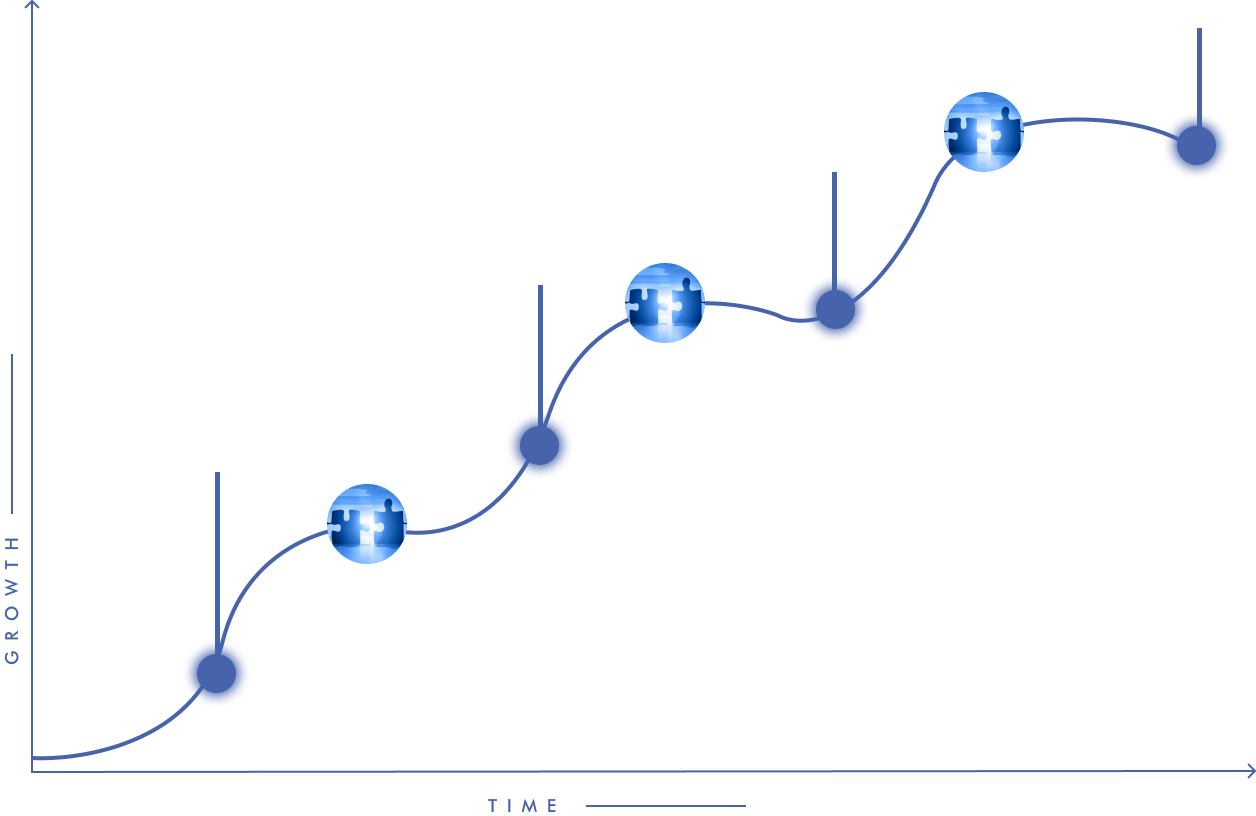
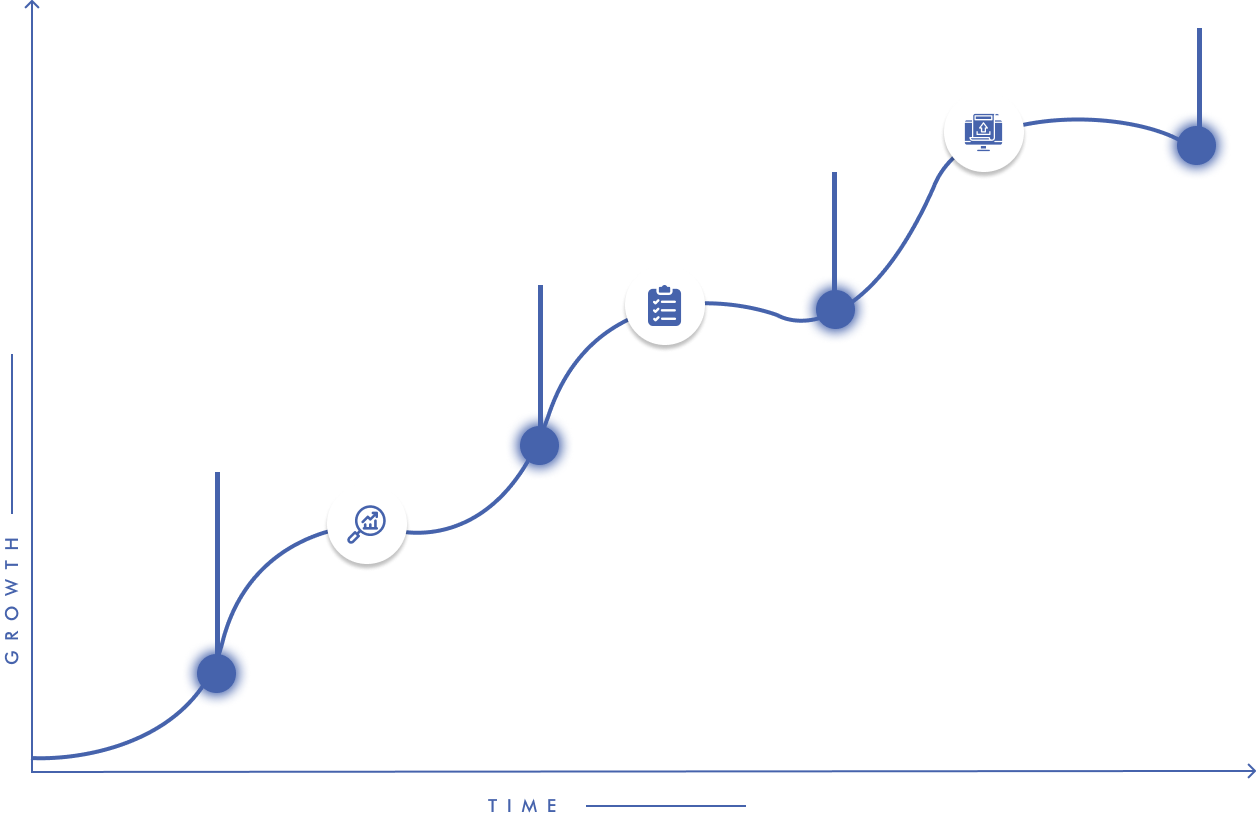
added changes to capabilities

Changed region(s): [[0.2484, 0.5821, 0.3416, 0.7047], [0.7452, 0.0919, 0.8384, 0.2145], [0.4968, 0.3064, 0.5589, 0.4289]]

diff --git a/src/component/serviceComponents/serviceComp.scss b/src/component/serviceComponents/serviceComp.scss
@@ -340,8 +340,14 @@
                                         &:hover{
                                             cursor: context-menu;
                                         }
-                                    }   
+                                    }  
+                                    &:nth-child(2){
+                                        background: #4663AC;
+                                        color: #fff;
+                                      }
+                                       
                             }
+
                     }
                     .amazon-inner-link{
                         display: flex;
@@ -477,7 +483,7 @@ padding: 5px 10px;
 }
 .ser-counter{
     background-image: url('../../../public/amazon-ser-counter.png');
-    height: 788px;
+    height: 560px;
     width: 100%;
     background-repeat: no-repeat;
     background-size: contain;
@@ -485,15 +491,14 @@ padding: 5px 10px;
     @include from-320-850{
         background-size: cover;
         background-position: center;
-        height: 650px;
+        height: 510px;
     }
     @include from-320-575{
         background-image: url('../../../public/growth-mobile.png');
     }
         .counter-info-wrap{
-            padding: 50px 70px;
+            padding: 100px 150px 0px 150px;
             display: flex;
-            justify-content: space-between;
             @include from-320-992{
                 padding: 40px;
                 flex-wrap: wrap;
@@ -526,6 +531,7 @@ padding: 5px 10px;
                         color: #fff;
                         line-height: normal;
                         font-weight: 300;
+                        text-align: center;
                         @include from-320-575{
                             font-size: 14px;
                         }
@@ -535,7 +541,7 @@ padding: 5px 10px;
                     }
             }
                 .first{
-                    width: 40%;
+                    width: 100%;
                     display: flex;
                     flex-direction: column;
                     margin-bottom: 20px;
@@ -545,6 +551,7 @@ padding: 5px 10px;
                         h1{
                             color: #fff;
                             font-size: 30px;
+                            text-align: center;
                             font-weight: 600;
                             line-height: normal;
                             @include above-1400{
@@ -556,11 +563,47 @@ padding: 5px 10px;
 }
 .slider-ser-wrap{
     position: absolute;
-    top:250px;
+    top:300px;
     left: 0px;
     right: 0px;
+    display: flex;
+    justify-content: center;
+    @include from-320-575{
+        padding: 20px;
+    }
+        .singleItem{
+            width: 200px;
+            border-radius: 0px 50px 50px 50px;
+background: #E1F1FD;
+box-shadow: 3px 5px 19px 0px rgba(0, 0, 0, 0.10);
+padding: 20px;
+            h1{
+                font-size: 24px;
+                text-align: center;
+                margin-bottom: 10px;
+                @include from-320-575{
+                    font-size: 16px;
+                }
+            }
+            p{
+                font-size: 16px;
+                text-align: center;
+                font-weight: 300;
+                line-height: 25px;
+                @include from-320-575{
+                    font-size: 12px;
+                    line-height: 15px;
+                }
+            }
+&:first-child{
+    margin-right: 50px;
+    @include from-320-575{
+        margin-right: 5px;
+    }
+}
+        }
     @include from-320-850{
-        top: 360px;
+        top: 270px;
     }
     @include from-320-575{
         position: relative;
@@ -583,15 +626,15 @@ padding: 5px 10px;
         background-position: center;
     }
     @include from-320-850{
-        margin-top: 200px;
+        margin-top: 70px;
     }
     @include from-320-400{
-        margin-top: 355px;
+        margin-top: 70px;
         padding: 20px;
         height: 400px;
     }
     @include from-400-530{
-        margin-top: 255px;
+        margin-top: 70px;
         background-image: url('../../../public/mobile-grow-2.png');
         background-size: cover;
         padding: 20px;

diff --git a/src/component/scaleComponent/scale.scss b/src/component/scaleComponent/scale.scss
@@ -38,6 +38,11 @@
         @content;
     }
 }
+@mixin from-400-575{
+    @media screen and (min-width:320.67px) and (max-width:400px) {
+        @content;
+    }
+}
 .growth-img{
     img{
         position: relative;
@@ -71,10 +76,10 @@
                         left: 15%;bottom: 35%;
                     }
                     @include from-320-575{
-                        width: 70px;
-                        height: 70px;
-                        font-size: 10px;
-                        left: 6%;
+                        width: 55px;
+                        height: 55px;
+                        font-size: 8px;
+                        left: 9vw;
     bottom: 30%;
                     }
                 }
@@ -105,11 +110,11 @@
     left: 36.3%;
                     }
                     @include from-320-575{
-                        width: 70px;
-                        height: 70px;
-                        font-size: 10px;
-                        bottom: 54%;
-    left: 28.3%;
+                        width: 55px;
+                        height: 55px;
+                        font-size: 8px;
+                        bottom: 58%;
+    left: 34.3vw;
                     }
                 }
                 .circle3{
@@ -138,12 +143,13 @@
                         top: 8%;
     right: 30%;
                     }
+                
                     @include from-320-575{
-                        width: 70px;
-                        height: 70px;
-                        font-size: 10px;
-                        top: -8%;
-    right: 26%;
+                        width: 55px;
+                        height: 55px;
+                        font-size: 8px;
+                        top: 2vw;
+    right: 27.5vw;
                     }
                 }
                 .circle4{
@@ -173,11 +179,11 @@
     top: -8%;
                     }
                     @include from-320-575{
-                        width: 70px;
-                        height: 70px;
-                        font-size: 10px;
-                        right: 2.5%;
-    top: -25%;
+                        width: 55px;
+                        height: 55px;
+                        font-size: 8px;
+                        right: 1.5%;
+    top: -6vw;
                     }
                 }
         }

diff --git a/src/app/product-sourcing/service.scss b/src/app/product-sourcing/service.scss
@@ -71,14 +71,14 @@
         
         .step-by-step-wrap{
             position: absolute;
-            width: 25%;
+            width: 30%;
             bottom: 150px;
             right: 150px;
             @include from-992-1250{
                 bottom: 100px;
             }
             @include from-575-992{
-                bottom:45px;
+                bottom:55px;
                 right: 80px;
             }
             @include from-320-850{
@@ -95,25 +95,35 @@
             }
                 h1{
                     text-transform: capitalize;
-                    font-size: 32px;
+                    font-size: 20px;
                     line-height: normal;
                     @include from-320-850{
                         font-size: 18px;
                     }
                     @include from-320-575{
+                        font-size: 12px;
+                    }
+                    @include from-575-992{
                         font-size: 13px;
                     }
                 }
                 p{
-                    font-size: 18px;
+                    font-size: 16px;
                     text-align: justify;
                     line-height: normal;
                     @include from-320-850{
                         font-size: 12px;
                     }
-                    @include from-320-400{
+                    @include from-320-575{
                         font-size: 10px;
-                        line-height: 9px;
+                        line-height: 10px;
+                    }
+                    @include from-575-992{
+                        font-size: 12px;
+                        line-height: 15px;
+                    }
+                    @include from-320-400{
+                        font-size: 9px;
                     }
                 }
         }

diff --git a/src/component/serviceComponents/service-why.js b/src/component/serviceComponents/service-why.js
@@ -14,6 +14,8 @@ function ServiceWhy({
   whyCardsArr,
   trustHeading,
   trustCardsArr,
+  mainImg,
+  secImg,
 }) {
   return (
     <section className="amazon-ser-con">
@@ -23,12 +25,7 @@ function ServiceWhy({
       </h1>
       <div className="amazon-ser-card">
         <div className="image-wrap">
-          <Image
-            alt="growth eco"
-            src={"/amazon-cards-img.png"}
-            width={563}
-            height={429}
-          />
+          <Image alt="growth eco" src={mainImg} width={563} height={429} />
         </div>
         <div className="info-con">
           <p className={poppins.className}>{mainPara}</p>
@@ -80,7 +77,7 @@ function ServiceWhy({
           </div>
         </div>
         <div className="grow-sec-img">
-          <img src={"/amazon-ser-grow.png"} />
+          <img src={secImg} />
         </div>
       </div>
     </section>

diff --git a/src/component/serviceComponents/service-counter.js b/src/component/serviceComponents/service-counter.js
@@ -24,6 +24,8 @@ function ServiceCounter({
           <h1 className={poppins.className}>{headingMain}</h1>
           <p className={poppins.className}>{paraMain}</p>
         </div>
+      </div>
+      <div className="slider-ser-wrap">
         <div className="singleItem">
           <h1 className={poppins.className}>{headingSub1}</h1>
           <p className={poppins.className}>{paraSub1}</p>
@@ -32,9 +34,6 @@ function ServiceCounter({
           <h1 className={poppins.className}>{headingSub2}</h1>
           <p className={poppins.className}>{paraSub2}</p>
         </div>
-      </div>
-      <div className="slider-ser-wrap">
-        <SliderSubComp />
       </div>
     </section>
   );

diff --git a/src/app/product-sourcing/page.js b/src/app/product-sourcing/page.js
@@ -48,8 +48,10 @@ function Service() {
         headerBG={"/product-sourcing-bg.png"}
       />
       <ServiceWhy
-        headingMain={"Why do you need "}
+        headingMain={"Why do you need"}
         spanMain={"Product Sourcing services?"}
+        mainImg={"/product-sourcing-section-1.png"}
+        secImg={"/product-sourcing-section-2.png"}
         mainPara={
           "To get access to a vast network of suppliers, saving time and costs while ensuring high-quality products meet their specific needs. We optimize the procurement process, enabling your Amazon businesses to focus on core operations and growth."
         }
